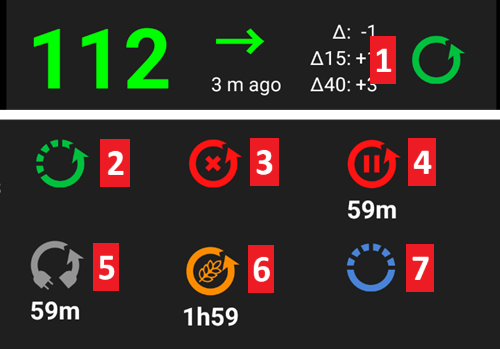
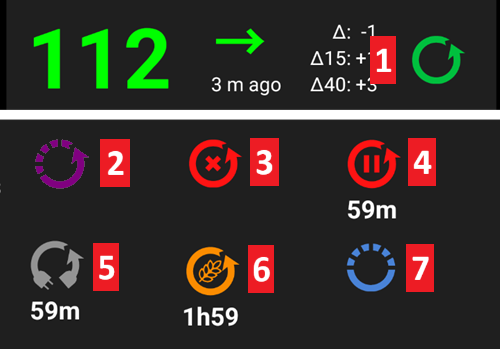
running mode

Changed region(s): [[0.06, 0.4011, 0.18, 0.5444]]

diff --git a/docs/EN/RemoteFeatures/RemoteControl.md b/docs/EN/RemoteFeatures/RemoteControl.md
@@ -1,10 +1,10 @@
 # Remote control of AAPS
 There are four highly effective tools for remotely managing **AAPS**:
 
-1) [SMS commands](RemoteControl_SMS-Commands) (follower phone can be either Android or iOS), 
-2) [AAPSClient](RemoteControl_aapsclient) (follower phone is Android)
-3) [Nightscout](RemoteControl_nightscout) (Android, iOS or other computer/device).  
-4) [Smartwatches](RemoteControl_smartwatches) (Android) 
+1) [SMS commands](#RemoteControl_SMS-Commands) (follower phone can be either Android or iOS), 
+2) [AAPSClient](#RemoteControl_aapsclient) (follower phone is Android)
+3) [Nightscout](#RemoteControl_nightscout) (Android, iOS or other computer/device).  
+4) [Smartwatches](#RemoteControl_smartwatches) (Android) 
 
 The first three are mostly appropriate for caregivers/parents, but smartwatches are very useful for caregivers/parents **and** for adults with diabetes themselves. 
 
@@ -21,7 +21,7 @@ See the dedicated [SMS Commands](../RemoteFeatures/SMSCommands.md) page.
 
 **AAPSClient** looks very similar in appearance to **AAPS** itself, offering the caregiver tabs that will remotely action commands in **AAPS**:
 
-![NSCLIENT_ 2024-05-17 134512](../images/6c66a27c-21d7-4c43-ac66-001669c0634f.png)
+![NSCLIENT_ 2024-05-17 134512](../images/remote_control_and_following/AAPSClient_main_view.png)
 
 ### About AAPSClient and AAPSClient2
 
@@ -100,15 +100,18 @@ If you are struggling with **AAPS** v3 to accept the 'NS access token' and using
 
 ### Features of AAPSClient include:
 
-| Tab / Hamburger     | Features                                                     |
-| ------------------- | ------------------------------------------------------------ |
-| **Action** Tab      | - Profile Switch <br>- Temp Target<br>- BG Check<br>- CGM Sensor Insert<br>- Note<br>- Exercise<br>- Announcement<br>- Question?<br>- History Browser |
-| **Food** Tab        |                                                              |
-| **Treatments** Tab  | - Check Treatments delivered including bolus and carbs entered |
-| **Maintenance** Tab | - Export and Import Settings                                 |
-| **Profile** Tab     | - Creating new profile<br>- Profile switch                   |
+| Tab / Hamburger     | Features                                                                                                                                                                       |
+| ------------------- |--------------------------------------------------------------------------------------------------------------------------------------------------------------------------------|
+| **Action** Tab      | - Profile Switch <br>- Loop Status change <br>- Temp Target<br>- BG Check<br>- CGM Sensor Insert<br>- Note<br>- Exercise<br>- Announcement<br>- Question?<br>- History Browser |
+| **Food** Tab        |                                                                                                                                                                                |
+| **Treatments** Tab  | - Check Treatments delivered including bolus and carbs entered                                                                                                                 |
+| **Maintenance** Tab | - Export and Import Settings                                                                                                                                                   |
+| **Profile** Tab     | - Creating new profile<br>- Profile switch                                                                                                                                     |
 
 **AAPSClient** allows the caregiver to make many of the adjustments that are allowed directly in **AAPS** (excluding insulin boluses) remotely, via the mobile or internet network. The main benefits of **AAPSClient** are the speed and ease with which caregivers/parents can use it to remotely control **APPS**. __AAPSClient__ _can_ be much faster than entering SMS Commands, if delivering a command which would require authentication. Commands entered on **AAPSClient** are uploaded onto Nightscout.
+In order for the actions taken in **AAPSClient** to be actually actioned in **AAPS**, the NSClient settings must allow to receive such orders. See the [Synchronization section of NSClient preferences](#Preferences-nsclient-synchronization).
+
+
 
 Remote control through **AAPSClient** is only recommended if your synchronization is working well (_i.e._ you don’t see unwanted data changes like self-modification of TT, TBR etc) see [release notes for Version 2.8.1.1](#important-hints-2-8-1-1) for further details.
 

diff --git a/docs/EN/DailyLifeWithAaps/AapsScreens.md b/docs/EN/DailyLifeWithAaps/AapsScreens.md
@@ -8,7 +8,7 @@
 (AapsScreens-the-homescreen)=
 ## The Homescreen
 
-![Homescreen V2.7](../images/Home2020_Homescreen.png)
+![Homescreen V2.7](../images/Home_Homescreen.png)
 
 This is the first screen you will come across when you open **AAPS**, and it contains most of the information that you will need day to day.
 
@@ -86,7 +86,7 @@ The blocks in the middle shows:
 
 On the right side, an icon shows the loop status:
 1. Green circle = loop running
-2. Green circle with dotted line = [low glucose suspend (LGS)](#objectives-objective6)
+2. Purple circle with dotted line = [low glucose suspend (LGS)](#objectives-objective6)
 3. Red circle = loop disabled (not working permanently)
 4. Red circle = loop suspended (temporarily paused but basal insulin will be given) - remaining time is shown below icon
 5. Grey circle = pump disconnected (temporarily no insulin dosage at all) - remaining time is shown below icon
@@ -209,22 +209,28 @@ Depending on the pump you use, you may not have all of these icons.
 
 The graph shows your blood glucose (BG) as read from your glucose monitor (CGM).
 
-Notes entered in action tab such as fingerstick calibrations and carbs entries as well as profile switches are shown here.
-
 Use the menu on top left of the graph or long press anywhere on the graph to change the timescale. You can choose between 6, 12, 18 or 24 hours.
 
 The green area reflects your target range.
 
-Blue triangles show [SMB](#Open-APS-features-super-micro-bolus-smb) - if enabled in [Preferences > OpenAPS SMB](#Preferences-openaps-smb-settings).
+This information is also shown on this graph : 
+* Boluses: blue triangle on the BG curve and insulin amount
+* Carbs entries: orange triangle on the BG curve and carb amount
+* Target as defined in the profile or modified by temporary target: green line
+* Profile switches: star at the top of the graph
+* Loop status: color line at the top of the graph when the status is anything else than closed loop - see [Loop status](#AapsScreens-loop-status) for the colors
+* [SMB](#Open-APS-features-super-micro-bolus-smb) - if enabled in [Preferences > OpenAPS SMB](#Preferences-openaps-smb-settings): blue triangles at the bottom of the graph
 
 (AapsScreens-activate-optional-information)=
 #### Activate optional information
 
-On the main graph, you can switch on these optional information:
-* Predictions
-* Treatments
+Using the top right arrow, you can switch on these optional information:
+* Predictions (see below)
+* Treatments : notes entered in action tab: grey, orange or red dot depending on the severity, as well as fingerstick calibrations: red dot
 * Basals
-* Activity - insulin activity curve
+  * As defined in the profile: blue dotted line at the bottom of the graph
+  * Actually delivered basal: blue plain line with blue background
+* Activity - insulin activity curve: yellow line
 
 To show this information, click the triangle on the right side of the main graph. For the main graph just the four options above the line "Graph   1 2 3 4" are available.
 

diff --git a/docs/EN/Maintenance/ReleaseNotes.md b/docs/EN/Maintenance/ReleaseNotes.md
@@ -75,10 +75,12 @@ Release date: 31-12-2025
 
 ### New features
 * Running mode @MilosKozak
-* new CGMs
-* Site rotation support @Philoul
-* ability to stop SMB from UI @MilosKozak
-* Syai CGM is trusted source and supports advanced filtering @MilosKozak
+  * Show [loop status history](#AapsScreens-running-mode) in treatment tabs
+  * Show and allow changing [loop status from AAPSClient](#RemoteControl_aapsclient).<br>NB : needs the setting [NSClient > Synchronization > Receive Running mode events](#Preferences-nsclient-synchronization)
+* [New CGMs](../Getting-Started/CompatiblesCgms.md) : Glunovo, Intelligo, Sinocare
+* [Site rotation support](#Aapsscreens-site-rotation) @Philoul
+* Ability to stop SMB from UI @MilosKozak
+* [Syai CGM](../CompatibleCgms/SyaiTagX1.md) is trusted source and supports advanced filtering @MilosKozak
 
 ### Wear OS Improvements
 * dramatically reduced battery usage @MilosKozak 

diff --git a/docs/EN/SettingUpAaps/Preferences.md b/docs/EN/SettingUpAaps/Preferences.md
@@ -429,7 +429,10 @@ When using NSClientV3, all uploaders must be using the API V3. Since most are no
 - Double check for typos here if you are stuck in Objective 1.
 - Leave Connect to websockets enabled (recommended).
 
+(Preferences-nsclient-synchronization)=
 ### Synchronization
+
+![Synchronization options](../images/Pref2025_NSclient_Synchronization.png)
 
 Synchronization choices will depend on the way you will want to use **AAPS**.
 

diff --git a/docs/EN/Maintenance/DocumentationUpdate.md b/docs/EN/Maintenance/DocumentationUpdate.md
@@ -5,7 +5,7 @@
 - [3.4](#version3400) release and documentation update roll-up (Wizard, Computer build versions, Config Builder)
 - CGM list update. Dexcom G5, Tomato, Glimp removed.
 - [Site rotation UI](#Aapsscreens-site-rotation)
-- Run Mode
+- [Running mode](#AapsScreens-running-mode)
 - Autotune
 
 ## December 2025
